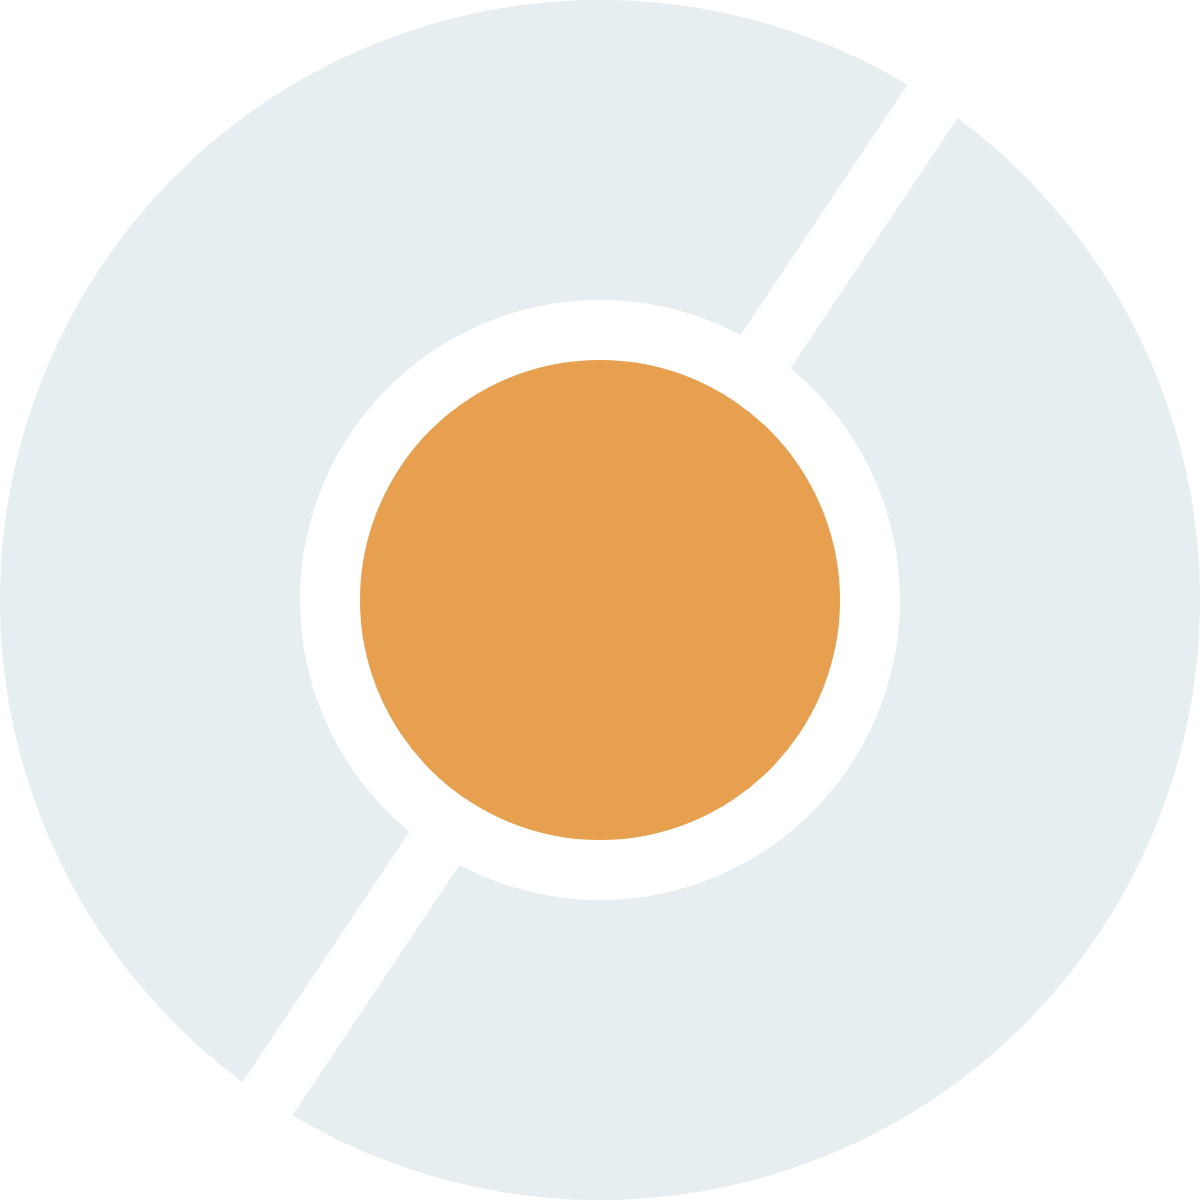
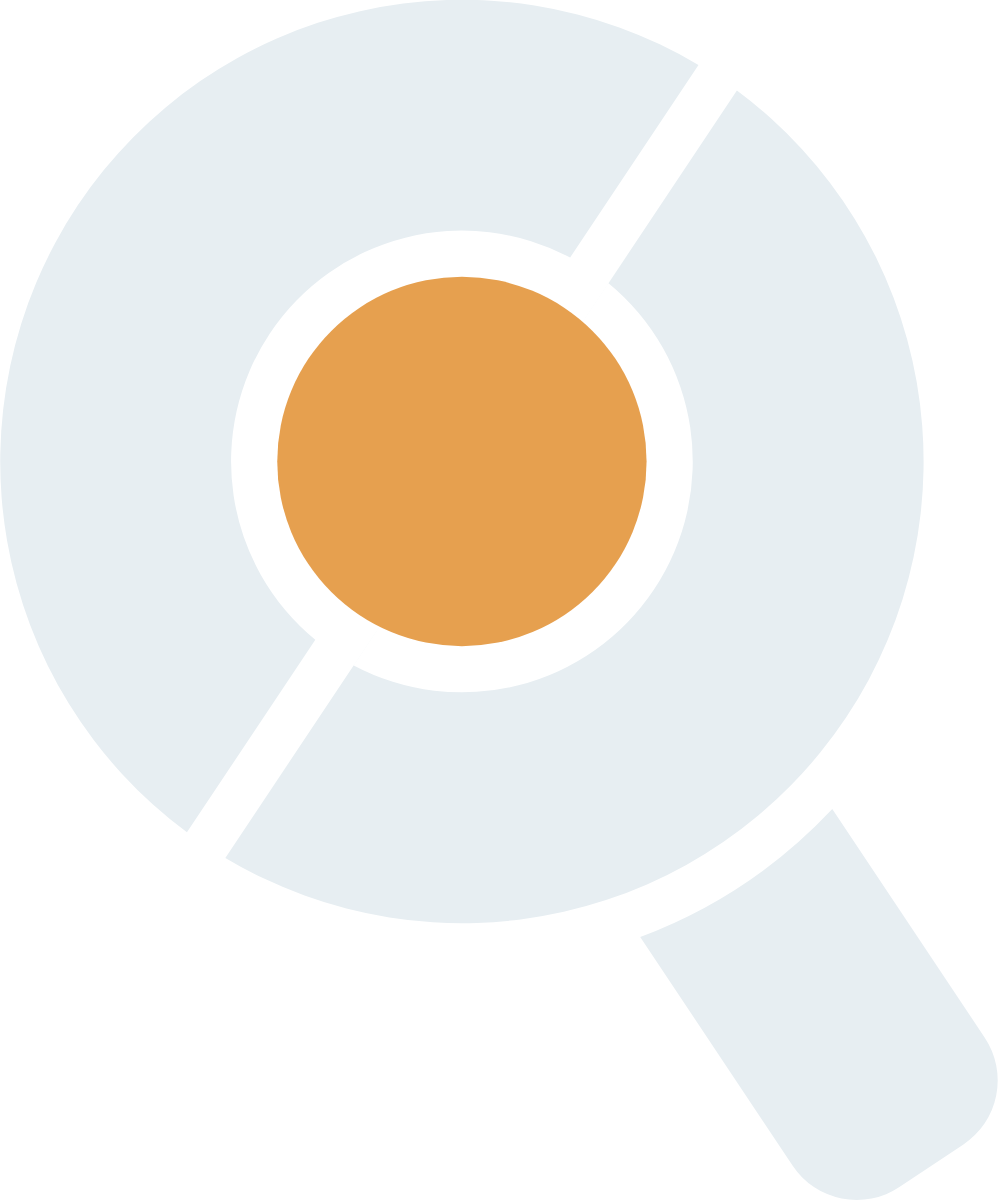
Make the Lens mark a search lens: add a handle
- Handle leaves the ring along the mirror of the V angle, as wide as the ring is thick,
  with an inner end concentric to the ring (even gap) and r = 50 outer corners
- Lockups now size for a non-square mark; all masters, PNGs and app assets regenerated
- Loading screen shows the handle; brand docs updated

Changed region(s): [[0.2796, 0.2158, 0.7144, 0.7092]]

diff --git a/brand/tools/lens_geometry.py b/brand/tools/lens_geometry.py
@@ -1,6 +1,6 @@
 """Exact construction of the Lens mark, on the Varaxis system.
 
-Lens is a lens: a ring (the rim) around an aperture. Every straight cut uses the Varaxis V angle
+Lens is a search lens: a ring (the rim) around an aperture, with a handle. Every straight cut uses the Varaxis V angle
 (3:2 slope) or its mirror, pieces are separated by one equal gap, and every curve is a true
 circular arc. Nothing is traced. See ../README.md for the rules these numbers encode."""
 import math
@@ -59,7 +59,7 @@ def cut_at(cx, cy, along):
 LENS = dict(R=300, r=150, G=30)
 
 
-def lens_geom(c=LENS):
+def aperture(c=LENS):
     """Aperture: a ring split by one crease at the V angle, around an accent pupil.
 
     - Ring: outer R = 300, inner r = 150 (half the radius).
@@ -74,3 +74,40 @@ def lens_geom(c=LENS):
         (ring_strip(cx, cy, R, r, mid + half, inf), 'base'),
         (disc_strip(cx, cy, r - G, -inf, inf), 'accent'),
     ]
+
+
+# ---------- the handle (search variant) ----------
+def handle(c=LENS, width=None, length=220, corner=50, end='square'):
+    """A handle leaving the ring towards the lower right, along the mirror of the V angle (2:3 run, rise).
+
+    Its inner end is an arc concentric with the ring, G units outside it, so the gap is even.
+    `end` = 'square' (outer corners softened by `corner`) or 'crease' (cut parallel to the crease)."""
+    import numpy as np
+    R, r, G = c['R'], c['r'], c['G']
+    w = width or (R - r)                         # same weight as the ring
+    cx = cy = R; u = np.array([2, 3]) / K; n = np.array([-3, 2]) / K
+    Rg = R + G
+    def inner(side):                             # where a long edge meets the circle of radius Rg
+        o = n * side * w / 2                     # edge line: centre + o + t*u ; solve |o + t u| = Rg
+        t = -o @ u + math.sqrt((o @ u) ** 2 - (o @ o - Rg * Rg))
+        return np.array([cx, cy]) + o + t * u
+    i1, i2 = inner(+1), inner(-1)
+    D = Rg + length
+    o1 = np.array([cx, cy]) + n * w / 2 + u * D; o2 = np.array([cx, cy]) - n * w / 2 + u * D
+    if end == 'crease':                          # cut the end along the V angle: direction (2, -3)
+        v = np.array([2, -3]) / K; mid = np.array([cx, cy]) + u * D
+        def along(p, q):                         # where edge through p (dir u) meets the cut line through mid (dir v)
+            A = np.array([u, -v]).T; t = np.linalg.solve(A, mid - p); return p + u * t[0]
+        o1, o2 = along(i1, None), along(i2, None)
+        radii = [0, corner, corner, 0]
+    else:
+        radii = [0, corner, corner, 0]
+    path = rounded_path([tuple(i1), tuple(o1), tuple(o2), tuple(i2)], radii)
+    # replace the straight closing edge (i2 -> i1) with the concentric arc
+    cross = (i2[0] - cx) * (i1[1] - cy) - (i2[1] - cy) * (i1[0] - cx)
+    return path[:-1] + f"A{f(Rg)} {f(Rg)} 0 0 {1 if cross > 0 else 0} {P(tuple(i1))}Z"
+
+
+def lens_geom(c=LENS):
+    """The approved Lens mark: the aperture with a handle, so it reads as search."""
+    return aperture(c) + [(handle(c), 'base')]

diff --git a/ui/theme.py b/ui/theme.py
@@ -150,15 +150,19 @@ h1, h2, h3, h4 { letter-spacing:-0.015em; font-weight:600 !important; }
 @keyframes lxBootOut { 0%, 25% { opacity:1; visibility:visible; transform:none; filter:none; }
   100% { opacity:0; visibility:hidden; transform:scale(1.04); filter:blur(10px); } }
 .lx-boot-inner { display:flex; flex-direction:column; align-items:center; }
-.lx-lens { position:relative; width:84px; height:84px; animation: lxPop 1s var(--e-out) both; }
+.lx-lens { position:relative; width:84px; height:84px; margin:0 9px 28px 0; animation: lxPop 1s var(--e-out) both; }
 .lx-aperture { position:absolute; inset:0; border-radius:50%; background:#0B1118;
   animation: lxSpin 2.4s var(--e-io) infinite; }
 .lx-aperture::before { content:""; position:absolute; inset:25%; border-radius:50%; background:#FFFFFF; }   /* r = R/2 */
 .lx-aperture::after { content:""; position:absolute; left:-2px; right:-2px; top:50%; height:4.2px; margin-top:-2.1px;
   background:#FFFFFF; transform:rotate(-56.31deg); }                                                          /* the V-angle crease */
+/* handle: 150 units wide, from 330 to 550 units out along the mirrored V angle (ring R = 300 = 42px) */
+.lx-handle { position:absolute; left:50%; top:50%; width:30.8px; height:21px; margin:-10.5px 0 0 -15.4px;
+  background:#0B1118; border-radius:2px 7px 7px 2px;
+  transform:translate(34.2px, 51.2px) rotate(56.31deg); }
 .lx-pupil { position:absolute; inset:30%; border-radius:50%; background:#C9761A; z-index:1;
   animation: lxIris 2.4s var(--e-io) .4s infinite; }
-.lx-word { display:block; margin-top:24px; height:34px; animation: lxFocusIn 1s var(--e-out) .35s both; }
+.lx-word { display:block; margin-top:6px; height:34px; animation: lxFocusIn 1s var(--e-out) .35s both; }
 .lx-bar { position:relative; width:148px; height:2px; margin-top:20px; border-radius:2px; background:#F4F4F5;
   overflow:hidden; animation: lxRise .8s var(--e-out) .6s both; }
 .lx-bar i { position:absolute; inset:0; width:40%; border-radius:2px; background:#0B1118;
@@ -413,7 +417,7 @@ def cta(title: str, body: str) -> None:
 
 _LOADER = """
 <div class="lx-boot" role="status" aria-live="polite" aria-label="Loading"><div class="lx-boot-inner">
-  <div class="lx-lens"><div class="lx-aperture"></div><div class="lx-pupil"></div></div>
+  <div class="lx-lens"><div class="lx-aperture"></div><div class="lx-handle"></div><div class="lx-pupil"></div></div>
   <img class="lx-word" alt="Lens by Varaxis" src="{WORDMARK}">
   <div class="lx-bar"><i></i></div>
   <div class="lx-steps"><span>Loading your clients</span><span>Reading the latest answers</span><span>Preparing your dashboard</span></div>

diff --git a/brand/tools/build_lens.py b/brand/tools/build_lens.py
@@ -72,21 +72,21 @@ def build(form, theme, mono=False, endorse=True):
         egap = 0.5 * C; W = max(ww, ew)
         return svg(W, C + egap + Ce, word((W - ww) / 2, C) + endo((W - ew) / 2, C + egap + Ce), NAME)
     if form == 'stacked':
-        MH = 4.0 * C; gap = 0.6 * C; egap = 0.5 * C
-        W = max(MH, ww, ew if endorse else 0); H = MH + gap + C + ((egap + Ce) if endorse else 0)
-        body = mark_at((W - MH) / 2, 0, MH) + word((W - ww) / 2, MH + gap + C)
+        MH = 4.0 * C; gap = 0.6 * C; egap = 0.5 * C; markw = mw * MH / mh
+        W = max(markw, ww, ew if endorse else 0); H = MH + gap + C + ((egap + Ce) if endorse else 0)
+        body = mark_at((W - markw) / 2, 0, MH) + word((W - ww) / 2, MH + gap + C)
         if endorse: body += endo((W - ew) / 2, MH + gap + C + egap + Ce)
         return svg(W, H, body, NAME)
     if form == 'horizontal':
         if endorse:
             MH = 2.6 * C; g1 = 0.62 * C; dvw = 0.05 * C; block = C + 0.45 * C + Ce
-            xdiv = MH + g1; xt = xdiv + dvw + g1; ty = (MH - block) / 2
+            markw = mw * MH / mh; xdiv = markw + g1; xt = xdiv + dvw + g1; ty = (MH - block) / 2
             body = mark_at(0, 0, MH) + f'<rect fill="{base}" x="{f(xdiv)}" y="0" width="{f(dvw)}" height="{f(MH)}"/>'
             bw = max(ww, ew)   # "LENS" is narrower than "BY VARAXIS": centre both lines in the wider one
             body += word(xt + (bw - ww) / 2, ty + C) + endo(xt + (bw - ew) / 2, ty + C + 0.45 * C + Ce)
             return svg(xt + bw, MH, body, NAME)
-        MH = 2.4 * C; g1 = 0.75 * C
-        return svg(MH + g1 + ww, MH, mark_at(0, 0, MH) + word(MH + g1, (MH - C) / 2 + C), NAME)
+        MH = 2.4 * C; g1 = 0.75 * C; markw = mw * MH / mh
+        return svg(markw + g1 + ww, MH, mark_at(0, 0, MH) + word(markw + g1, (MH - C) / 2 + C), NAME)
 
 
 if __name__ == '__main__':

diff --git a/brand/README.md b/brand/README.md
@@ -30,14 +30,16 @@ All text is outlined, so no font is needed to display these files.
 
 Amber is the light that passes through the lens. It sits beside Scholar indigo `#3F5AF3` and ClinicOS teal `#1B7786` without competing with either.
 
-## Construction (viewBox 600 × 600)
+## Construction (units of the 600-unit ring)
 
-The mark is an **aperture**: a lens rim around a pupil.
+The mark is a **search lens**: an aperture (a lens rim around a pupil) with a handle.
 
 - **Ring:** outer R = 300, inner r = 150 (half the radius, the same half-radius used in the ClinicOS construction).
 - **Crease:** one straight cut through the centre at the **Varaxis V angle** (3:2 slope, 56.31°), drawn rising to the right. It is a 30-unit gap, so the ring becomes two pieces.
 - **Pupil:** the accent. A disc of radius 120 (r − 30), so it sits 30 units inside the ring on every side: every gap in the mark is the same width.
-- Every curve is a true circular arc; the only straight lines are along the V angle.
+- **Handle:** leaves the ring towards the lower right along the **mirror of the V angle** (2:3 run to rise). It is as wide as the ring is thick (150), and runs 220 units. Its inner end is an arc concentric with the ring, 30 units outside it, so the gap matches every other gap. Its outer corners are softened with r = 50, the radius the V uses.
+- Every curve is a true circular arc; the only straight lines run along the V angle or its mirror.
+- The mark's viewBox is 648.1 × 779.745 (the ring is 600 across; the handle extends it).
 
 ## Wordmark and lockups
 
@@ -50,7 +52,7 @@ Exactly as the Varaxis masters:
 
 - **Clear space:** at least a quarter of the mark's height on every side.
 - **Minimum size:** the symbol alone at 16 px; below a 24 px wordmark cap height drop the endorsement and use `lens-horizontal-compact`.
-- **Do not:** rotate the crease, change the gaps, recolour the ring, add effects, or set the wordmark in live text.
+- **Do not:** rotate the crease or the handle, change the gaps, recolour the ring or handle, add effects, or set the wordmark in live text.
 
 ## Regenerating
 

diff --git a/README.md b/README.md
@@ -144,7 +144,7 @@ Run the tests with `pytest`.
 
 ## Brand
 
-The Lens mark is an aperture: a ring split by one crease at the Varaxis V angle, around an amber pupil. It is built on the same system as the Varaxis, Scholar and ClinicOS masters: the same ink, the same Montserrat wordmark and "BY VARAXIS" endorsement, and exactly one accent piece.
+The Lens mark is a search lens: a ring split by one crease at the Varaxis V angle, around an amber pupil, with a handle along the mirror of that angle. It is built on the same system as the Varaxis, Scholar and ClinicOS masters: the same ink, the same Montserrat wordmark and "BY VARAXIS" endorsement, and exactly one accent piece.
 
 | | Light grounds | Dark grounds |
 |---|---|---|
